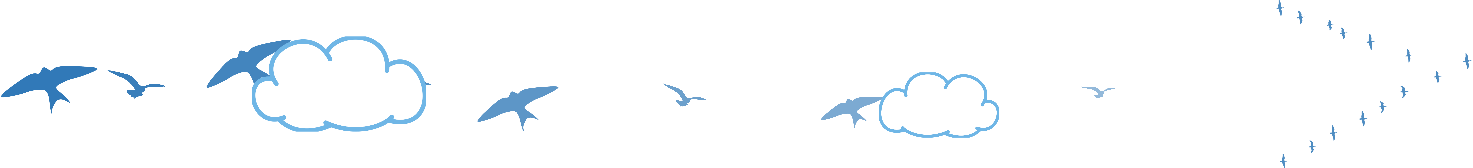
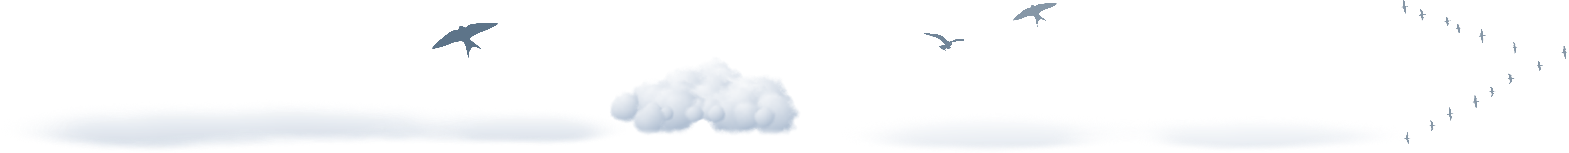
天空蓝主题窗口点缀改为写实静谧的高空风格：云朵改为按体积生成的积云与薄层云，左上角一座日光照亮的积云塔、背后透出柔和日光，右下角一道低矮积云带压在拐角；飞鸟减少并改为深灰蓝远景剪影；卡通风筝换成高空里拖着细长飘带的小风筝；来源说明同步改为只列飞鸟剪影

diff --git a/dstools/qt/ornaments.py b/dstools/qt/ornaments.py
@@ -76,17 +76,16 @@ _SPRITES: dict[str, tuple[Sprite, ...]] = {
         Sprite("sakura_spray_bottom.png", 1, 1, -180.5, -84.5, 185),
     ),
     "sky": (
-        # 排版脚本 sky/compose_sky.py。沿上边框向右、沿左边框向下各一行燕子与海鸥，越远越小越淡，
-        # 夹着几朵小白云，上边末端一小段雁阵；都停在外框线外侧，不挡标题文字
-        Sprite("sky_spray_right.png", 0, 0, 382.5, -24, 56),
-        Sprite("sky_spray_down.png", 0, 0, -36, 253, 346),
-        # 左上主角：三朵白云叠在拐角上，两只海鸥从云边飞出
-        Sprite("sky_cluster.png", 0, 0, 14.5, -8, 96),
-        # 右上呼应：拐角外一只风筝，蝴蝶结飘带往右下垂在窗外，风筝线沿上边往左渐隐，远处一只小风筝；
-        # 都不挡标题栏按钮
-        Sprite("sky_spray_corner.png", 1, 0, -138, -31, 120),
-        # 右下角：白云叠在拐角，飞鸟沿下边缘往左、沿右边框外侧往上散开；左下角留白
-        Sprite("sky_bottom.png", 1, 1, -170.5, -126.5, 283),
+        # 排版脚本 sky/compose_sky.py，写实静谧的高空风格，云朵按体积生成。沿上边框向右是低低的薄层云
+        # 与一朵小积云，远处零星飞鸟、末端一段雁阵；沿左边框向下两朵小积云一高一低；都停在外框线外侧
+        Sprite("sky_spray_right.png", 0, 0, 356.5, -28.5, 51),
+        Sprite("sky_spray_down.png", 0, 0, -40, 242.5, 287),
+        # 左上主角：一座积云塔立在拐角外，背后透出柔和日光，几只海鸥从云边远远飞过
+        Sprite("sky_cluster.png", 0, 0, 0.5, -81.5, 207),
+        # 右上呼应：拐角外高空里一只小风筝拖着细长飘带，风筝线沿上边往左淡去；都不挡标题栏按钮
+        Sprite("sky_spray_corner.png", 1, 0, -130.5, -35.5, 79),
+        # 右下角：一道低矮的积云带压在拐角，往左延一条薄层云，几只鸟沿右边框外侧往上飞；左下角留白
+        Sprite("sky_bottom.png", 1, 1, -140.5, -67.5, 171),
     ),
     "twilight": (
         # 星夜蓝，排版脚本 twilight/compose_twilight.py。沿上边框向右、沿左边框向下各一道银河光带，
